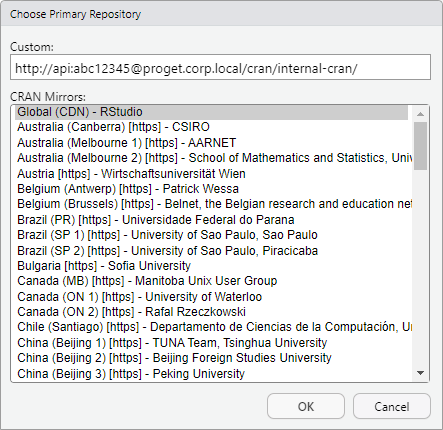
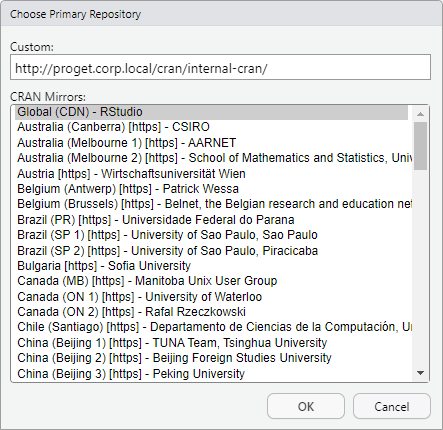
rewrote authentication

Changed region(s): [[0.1174, 0.1512, 0.8217, 0.1814]]

diff --git a/Content/proget/feeds/cran/howto-cran-publish.md b/Content/proget/feeds/cran/howto-cran-publish.md
@@ -25,13 +25,7 @@ You'll then see several options related to ProGet's [Vulnerability Scanning and 
 
 ![](/resources/docs/proget-cran-feed-empty.png){height="" width="50%"}
 
-## Step 2: Remove Anonymous Access and Create an API Key { #step-2 }
-
-To keep our `internal-cran` feed private we will need to first remove anonymous access to the feed (enabled by default) and then create an API key to authenticate to it.
-
-First navigate "Settings"> "Manage Security" and select the "Tasks/Permissions" tab. Remove anonymous access by clicking the small "X" in the "Anonymous" entry. 
-
-![](/resources/docs/proget-permissions-remove.png){height="" width="50%"}
+## Step 2: Create an API Key { #step-2 }
 
 Next, we'll create an [API Key](/docs/proget/reference-api/proget-apikeys) allowing our local client to authenticate to our `internal-cran` feed. This allows us to upload and install packages from the feed.
 
@@ -113,7 +107,7 @@ Your package will then be uploaded to the `internal-cran` feed.
 ![](/resources/docs/proget-cran-internal-package.png){height="" width="50%"}
 
 
-## Step 5: Add the Feed to Local R Environments
+## Step 5: Add the Feed to Local R Environments { #step-5 }
 
 To install R packages you have published to your `internal-cran` feed, you'll need to add the feed to your local R environments. For this, you will need the feed's URL. This is found at the top right of the feed's page.
 
@@ -122,25 +116,25 @@ To install R packages you have published to your `internal-cran` feed, you'll ne
 Then, any time you want to install a package, take the `internal-cran` feed URL and the API key you created in [Step 2](#step-2), and in enter:
 
 ```r
-install.packages("«package-name»", repos="http://api:«api-key»@«feed-url»")
+install.packages("«package-name»", repos="«feed-url»")
 ```
 
-For example, to install the package `devtools` from `http://proget.corp.local/cran/public-cran/`, authenticating with `abc12345` you would enter:
+For example, to install the package `devtools` from `http://proget.corp.local/cran/internal-cran/` you would enter:
 
 ```r
-install.packages("devtools", repos="http://api:abc12345@proget.corp.local/cran/public-cran/")
+install.packages("devtools", repos="http://proget.corp.local/cran/internal-cran/")
 ```
 
-However, to avoid having to type in the repo URL every time, you can set your ProGet instance as a custom repository. This will configure R to look first at the specified URL for packages, instead of the default CRAN repository. You can do this by entering:
+However, to avoid having to type in the repo URL every time, you can set your `internal-cran` feed as a custom repository. This will configure R to look first at the specified URL for packages, instead of the default CRAN repository. You can do this by entering:
 
 ```r
-options(repos = c(«repository-name» = "http://api:«api-key»@«feed-url»"))
+options(repos = c(«repository-name» = "«feed-url»"))
 ```
 
-For example, to create a custom repository with the name ProGet that points to `http://proget.corp.local/cran/public-cran/` authenticating with abc12345, you would enter: 
+For example, to create a custom repository with the name ProGet that points to `http://proget.corp.local/cran/internal-cran/` you would enter: 
 
 ```r
-options(repos = c(ProGet = "http://api:abc12345@proget.corp.local/cran/public-cran/"))
+options(repos = c(ProGet = "http://@proget.corp.local/cran/internal-cran/"))
 ```
 
 In the above example, we name the custom repository `ProGet`, though you can choose any name you prefer.
@@ -172,3 +166,41 @@ getOption("repos")
 ```
 
 This should list all repositories connected. If your ProGet instance is at the top, this indicates that it is set as the primary repository source for packages.
+
+## Step 7: (Optional) Authenticating to Your CRAN Feed
+
+Anonymous access to view and download from your `internal-cran` feed is enabled by default, but if you need it to require authentication (e.g. if your ProGet instance is public) you can remove anonymous access and create an API key to authenticate to the feed.
+
+Navigate "Settings"> "Manage Security" and select the "Tasks/Permissions" tab. Remove anonymous access by clicking the small "X" in the "Anonymous" entry. 
+
+![](/resources/docs/proget-permissions-remove.png){height="" width="50%"}
+
+Then create an API key as explained in [step 2](#step-2), but this time Make sure the "View/Download" box is checked, and then select "Save".
+
+Now, add the `internal-cran` feed to your R environment as we did in [step 5](#step-5) but this time take the API key you just created in addition to the the `internal-cran` feed URL and enter:
+
+```r
+install.packages("«package-name»", repos="http://api:«api-key»@«feed-url»")
+```
+
+For example, to install the package `devtools` from `http://proget.corp.local/cran/internal-cran/`, authenticating with `abc12345` you would enter:
+
+```r
+install.packages("devtools", repos="http://api:abc12345@proget.corp.local/cran/internal-cran/")
+```
+
+Or set your `internal-cran` as a custom repository by entering:
+
+```r
+options(repos = c(«repository-name» = "http://api:«api-key»@«feed-url»"))
+```
+
+For example, to create a custom repository with the name ProGet that points to `http://proget.corp.local/cran/internal-cran/` authenticating with `abc12345`, you would enter: 
+
+```r
+options(repos = c(ProGet = "http://api:abc12345@proget.corp.local/cran/internal-cran/"))
+```
+
+You can also configure this in RStudio by navigating to "Tools" > "Global Options" > "Packages" and selecting "Change" and then entering the feed URL in the "Custom" field.
+
+![](/resources/docs/rstudio-customrepo-internal-apikey.png){height="" width="50%"}
